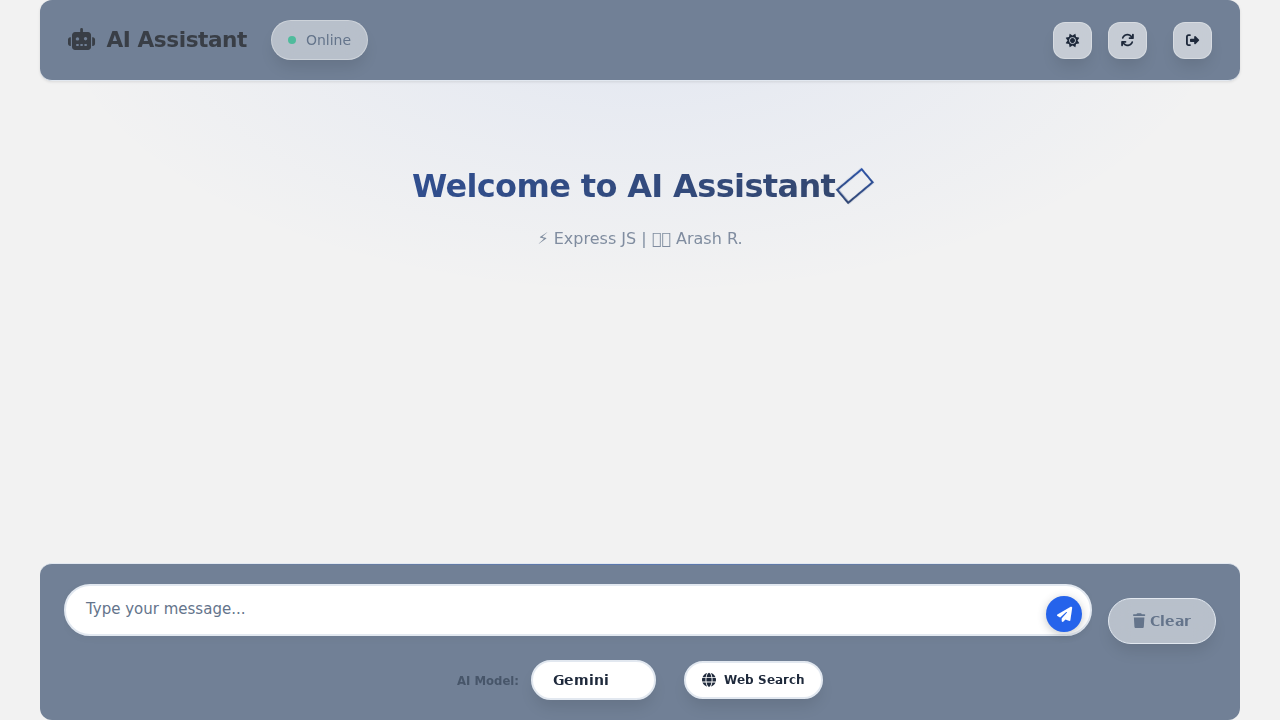
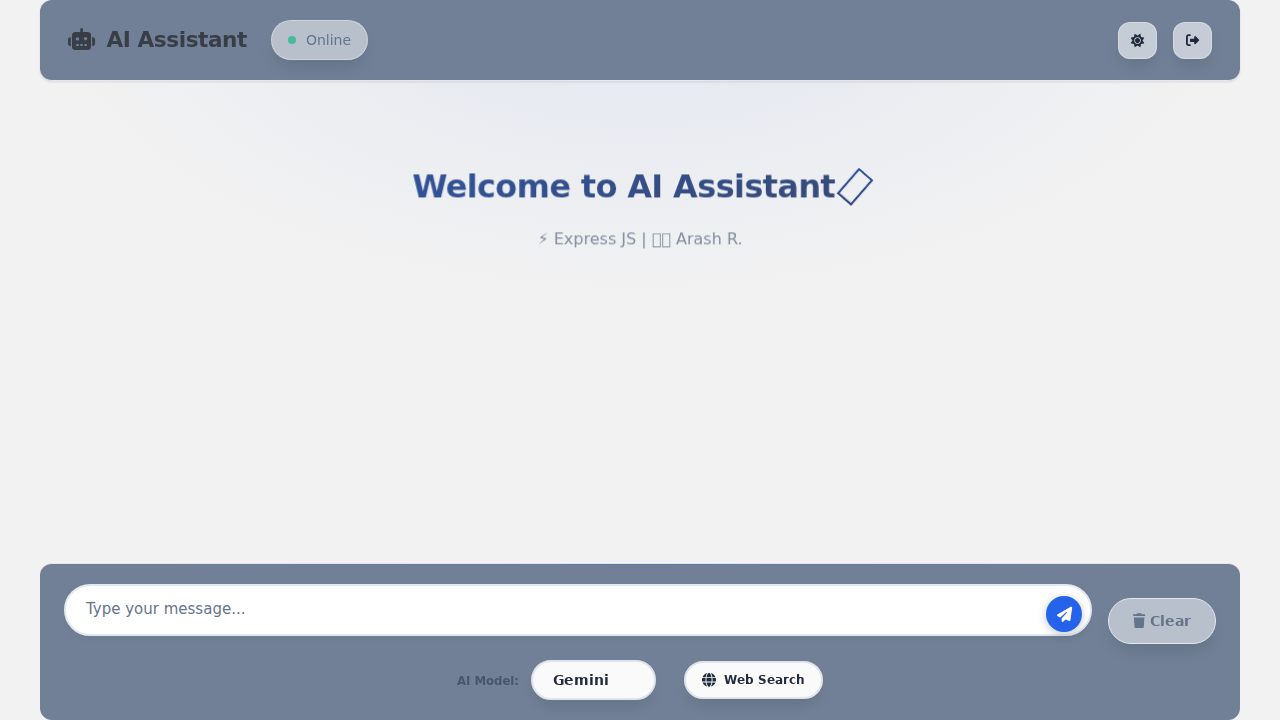
feat: add UI button to sync knowledge base
- Add 'Sync Knowledge Base' button to `public/index.html`.
- Create `public/assets/js/SyncHandler.js` to handle button click and API call.
- Implement permission logic: Button only visible for users 'arash', 'siamak', 'ata'.
- Add `GET /auth/me` to check permissions via JWT.
- Protect `POST /api/vector/sync` with server-side auth check.

Changed region(s): [[0.8125, 0.0306, 0.9062, 0.0917], [0.3125, 0.2444, 0.5, 0.275], [0.5312, 0.2444, 0.6875, 0.275]]

diff --git a/public/assets/js/SyncHandler.js b/public/assets/js/SyncHandler.js
@@ -7,24 +7,22 @@ export default class SyncHandler {
     }
 
     init() {
-        // Simple logic to show button for specific users if needed,
-        // or just show it for everyone as per user request "make this button available"
-        // Since we don't have easy frontend access to user ID without decoding token,
-        // and user asked to make it available, we will unhide it.
-        // Ideally, we would decode the JWT here to check for 'arash', 'siamak', 'ata'.
-
-        // For now, I will assume we should just show it or check a cookie if possible.
-        // Let's check if the 'user' cookie exists or if we can infer logged in state.
-        // But for this request, "make this button available" implies visibility.
-
         this.checkVisibility();
         this.button.addEventListener('click', () => this.handleSync());
     }
 
-    checkVisibility() {
-        // Attempt to read the 'user' cookie set by the server, if any.
-        // Or simply show it.
-        this.button.style.display = 'inline-block';
+    async checkVisibility() {
+        try {
+            const response = await fetch('/auth/me');
+            if (response.ok) {
+                const data = await response.json();
+                if (data.canSync) {
+                    this.button.style.display = 'inline-block';
+                }
+            }
+        } catch (e) {
+            // Ignore auth check errors, keep button hidden
+        }
     }
 
     async handleSync() {

diff --git a/routes/web.js b/routes/web.js
@@ -1,9 +1,12 @@
 import express from 'express';
+import jwt from 'jsonwebtoken';
 import {dirname, join} from 'node:path';
 import {fileURLToPath} from 'node:url';
 import {clearConversationHistory, saveConversationHistory} from '../middleware/keySession.js';
 import {syncToDatabase} from '../utils/interactionLogManager.js';
 import { syncDocuments, searchVectors } from '../controllers/vectorController.js';
+import { JWT_SECRET } from '../config/index.js';
+import User from '../models/User.js';
 
 const __filename = fileURLToPath(import.meta.url);
 const __dirname = dirname(__filename);
@@ -49,6 +52,17 @@ export default function createRouter(
 
     router.post('/api/vector/sync', async (req, res) => {
         try {
+            // Security check
+            const token = req.cookies.jwt;
+            if (!token) return res.status(401).json({ success: false, error: 'Unauthorized' });
+
+            const decoded = jwt.verify(token, JWT_SECRET);
+            const user = await User.findById(decoded.id);
+
+            if (!user || !['arash', 'siamak', 'ata'].includes(user.username.toLowerCase())) {
+                return res.status(403).json({ success: false, error: 'Forbidden' });
+            }
+
             const result = await syncDocuments();
             res.json({ success: true, message: 'Vector database synced successfully', data: result });
         } catch (error) {

diff --git a/routes/auth.js b/routes/auth.js
@@ -1,9 +1,27 @@
 import express from 'express';
+import jwt from 'jsonwebtoken';
 import User from '../models/User.js';
 import {generateToken} from '../utils/authManager.js';
-import {NODE_ENV} from '../config/index.js';
+import {NODE_ENV, JWT_SECRET} from '../config/index.js';
 
 const router = express.Router();
+
+router.get('/me', async (req, res) => {
+    try {
+        const token = req.cookies.jwt;
+        if (!token) return res.json({username: null, canSync: false});
+
+        const decoded = jwt.verify(token, JWT_SECRET);
+        const user = await User.findById(decoded.id).select('username'); // minimal query
+
+        if (!user) return res.json({username: null, canSync: false});
+
+        const canSync = ['arash', 'siamak', 'ata'].includes(user.username.toLowerCase());
+        res.json({username: user.username, canSync});
+    } catch (error) {
+        res.json({username: null, canSync: false});
+    }
+});
 
 router.post('/login', async (req, res) => {
     const {username, password} = req.body;

diff --git a/app.js b/app.js
@@ -36,7 +36,7 @@ app.use('/', createRouter(
     callSimpleGeminiAPI,
     callArvanCloudAPI
 ));
-// app.use('/auth', authRoutes);
+app.use('/auth', authRoutes);
 
 app.use(errorHandler);
 
